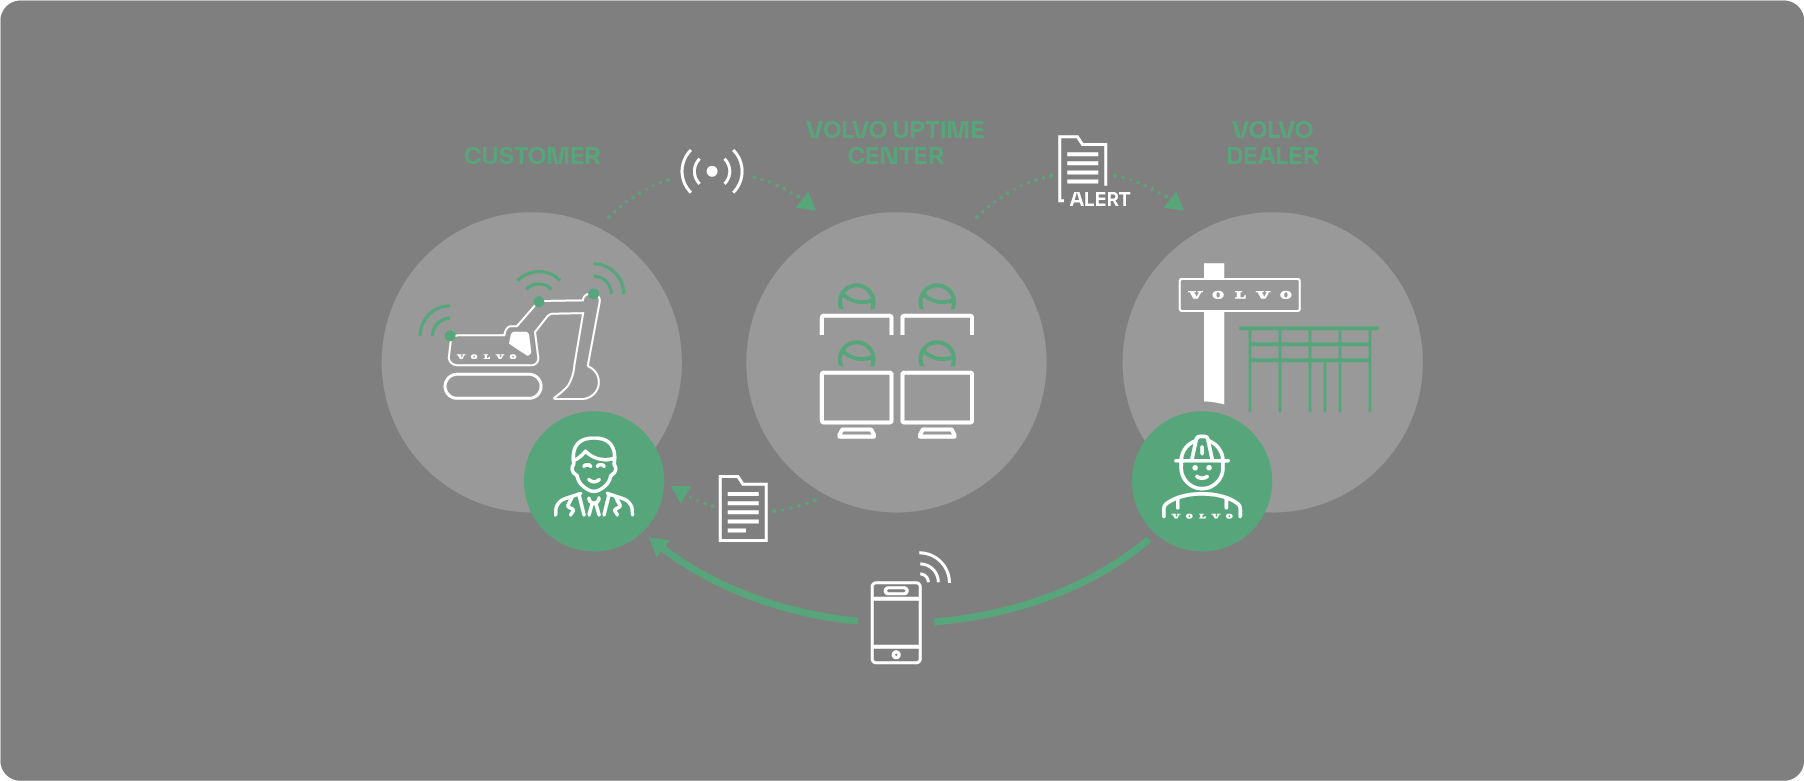
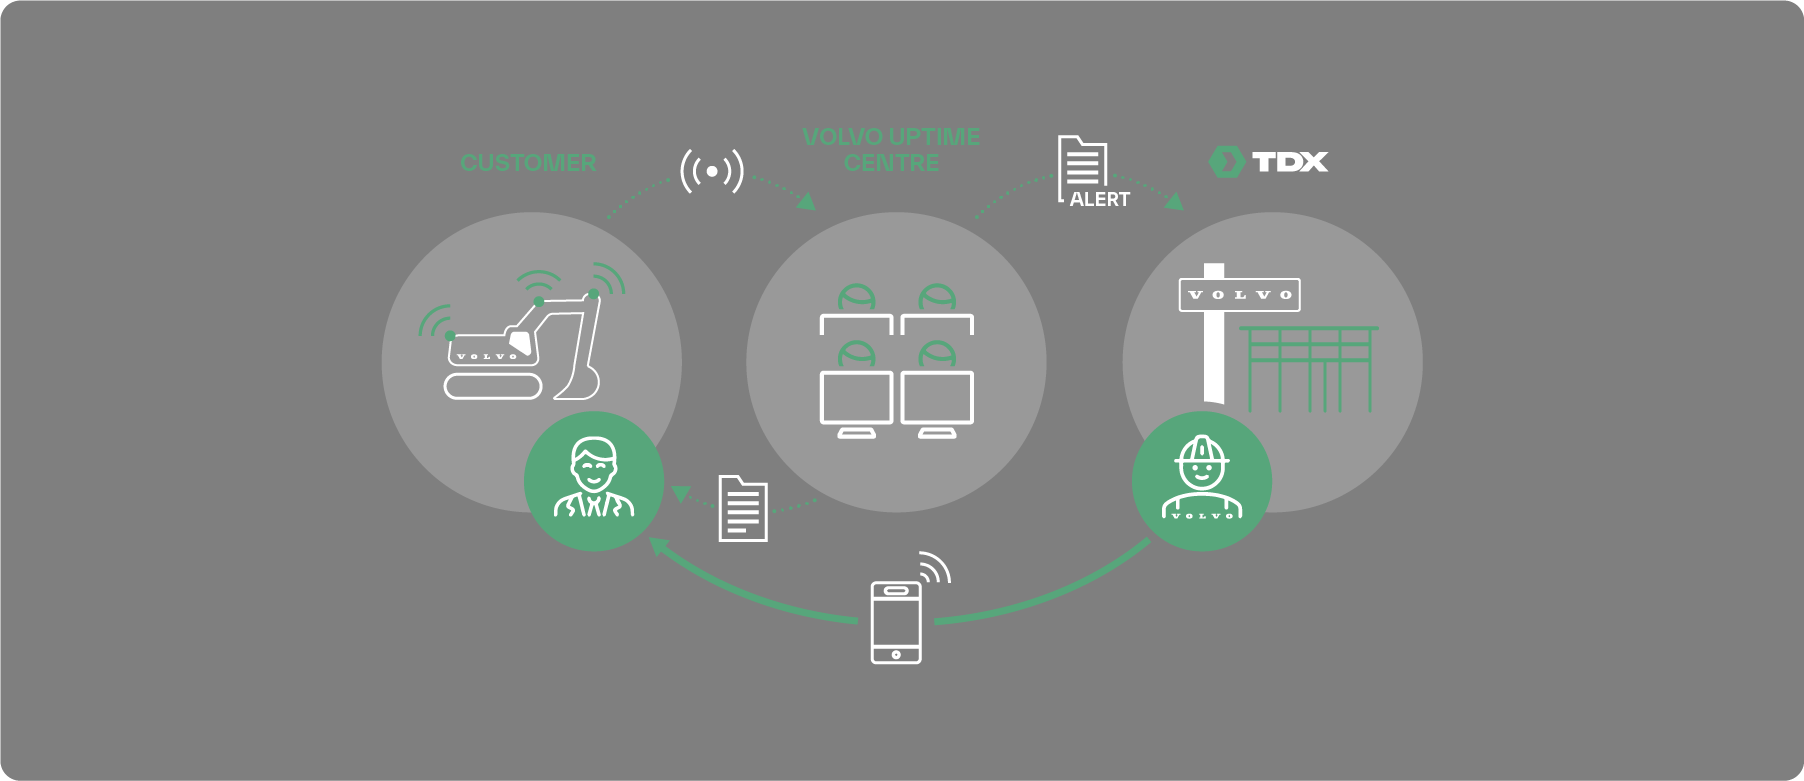
activecare editds

Changed region(s): [[0.6519, 0.1536, 0.745, 0.2458], [0.4346, 0.1536, 0.5588, 0.2151], [0.2483, 0.1844, 0.3415, 0.2151]]

diff --git a/html/volvo-activecare.html b/html/volvo-activecare.html
@@ -561,14 +561,14 @@
 
             <div>
            
-                <h1 class=" green">The Volvo Uptime Center</h1>
+                <h1 class=" green">The Volvo Uptime Centre</h1>
                 <br>
             <p>We understand the importance of uptime when it comes
                 to the success of your operation, which is why Volvo
                 Construction Equipment has invested in creating Volvo
-                Uptime Centers throughout the world. </p>
+                Uptime Centres throughout the world. </p>
                 
-                <p>Our Volvo machine experts work in these Centers, utilizing the most advanced
+                <p>Our Volvo machine experts work in these Centres, utilizing the most advanced
                 diagnostic tools and systems, to help keep uptime to a
                 maximum.</p>
             </div>
@@ -577,8 +577,8 @@
                 <h1 class=" green">How it works</h1>
                 <br>
                 <ul class="bulleted vanilla">
-                    <li>Machine data is captured via CareTrack, the Volvo telematics system, and sent to the Volvo Uptime Center</li>
-                    <li>Volvo experts monitor machines in real-time and send alerts to the Volvo dealer. If action is needed, your dealer will contact you to advise on the next steps.</li>
+                    <li>Machine data is captured via CareTrack, the Volvo telematics system, and sent to the Volvo Uptime Centre</li>
+                    <li>Volvo experts monitor machines in real-time and send alerts to the Volvo dealer. If action is needed, TDX will contact you to advise on the next steps.</li>
                     <li>The information is also compiled into a pdf report and sent to your inbox every week</li>
                 </ul>
 
@@ -672,10 +672,10 @@
 
 
             <h4 class="green">Minimize unexpected costs</h4>
-            <p>Your dealer can advise you on whether your machine requires immediate action, or if the repair can be scheduled into your next service, therefore streamlining maintenance requirements and reducing unnecessary travel.</p>
+            <p>TDX can advise you on whether your machine requires immediate action, or if the repair can be scheduled into your next service, therefore streamlining maintenance requirements and reducing unnecessary travel.</p>
 
             <h4 class="green">Tailored recommendations</h4>
-            <p>Eliminate recurring machine faults. Your local dealer can examine how your machine is being operated and why certain actions may be causing problems. Whatever the cause, Volvo can advise on the best solution, tailored to your specific application.</p>
+            <p>Eliminate recurring machine faults. TDX can examine how your machine is being operated and why certain actions may be causing problems. Whatever the cause, Volvo can advise on the best solution, tailored to your specific application.</p>
               
         </section>
     </div>
@@ -700,7 +700,7 @@
             <h1>Ready-made analysis</h1>
             <br>
             <p>Designed to identify areas where uptime could be improved, a weekly report will provide insights into how your machines are being used.</p>
-            <p>Take action and work closely with your Volvo dealer to ensure your machine stays in optimum condition.</p>
+            <p>Take action and work closely with TDX to ensure your machine stays in optimum condition.</p>
 
             <h4 class="green">Easy-to-use data</h4>
             <p>The report presents vital information in an easy-to-understand format, eliminating the need to sift through complicated data.</p>
@@ -749,26 +749,25 @@
 
         </section>
         <section>
-            <h1>Sub-Head</h1>
+            <h1>Clear, pro-active and precise</h1>
             <br>
 
-           <p>Aute ipsum laboris irure aute consectetur culpa nostrud cupidatat. Culpa esse sunt labore sint. Incididunt eu labore adipisicing id adipisicing pariatur nostrud sint ullamco esse in.</p>
-
-           <p>Aute ipsum laboris irure aute consectetur culpa nostrud cupidatat. Culpa esse sunt labore sint. Incididunt eu labore adipisicing id adipisicing pariatur nostrud sint ullamco esse in.</p>
+            <h4 class="green">ActiveCare takes Caretrack to the next level</h4>
+            <p>It allows you to hand off the daily monitoring to Volvo's Uptime Center. This team monitors your machines 24/7 and sifts through all the raw fleet information — only contacting you (and your dealer) when there's an alert that requires your attention. The data is always filtered and prioritized in three different levels according to the fault type.</p>
 
 
          
            
         </section>
         <section>
-            <h4 class="green">Sub-title</h4>
-            <p>Aute ipsum laboris irure aute consectetur culpa nostrud cupidatat. Culpa esse sunt labore sint. Incididunt eu labore adipisicing id adipisicing pariatur nostrud sint ullamco esse in.</p>
+            <h4 class="green">Filter out excessive data</h4>
+            <p>Filtering out the noise from being inundated with undiagnosed fault codes, Volvo ActiveCare delivers operational efficiency for equipment owners and fleet managers.</p>
 
-
-            <h4 class="green">Sub-title</h4>
-            <p>Aute ipsum laboris irure aute consectetur culpa nostrud cupidatat. Culpa esse sunt labore sint. Incididunt eu labore adipisicing id adipisicing pariatur nostrud sint ullamco esse in.</p>
-
+            <h4 class="green">We've got this</h4>
+            <p>We do the work for you, there is no need to spend hours going through data.</p>
   
+            <h4 class="green">Take action when required</h4>
+            <p>Only a small fraction of alerts are used to create cases, eliminating non-essential downtime. </p>
         </section>
     </div>
     <span data-src="/images/2023/activecare/activecare5-m.jpg"></span><!-- use 4:3 aspect for ph -->
@@ -804,7 +803,10 @@
             <div>
                 <hr class="short thickLine">
                 <br>
-                <h6 class="">Use this enquiry form or contact your local TDX Volvo expert to learn more about the financial and operational benefits of adding Volvo ActiveCare to your fleet.</h6>
+                <h6 class="">Use this form or contact your local TDX Volvo expert to learn more about the financial and operational benefits of adding Volvo ActiveCare to your fleet.</h6>
+                <br>
+                <br>
+                <p><strong>Already a CareTrack customer?</strong> Ask us about how to upgrade your fleet.</p>
       
             </div>
 

diff --git a/html/tdx-sustainability.html b/html/tdx-sustainability.html
@@ -106,7 +106,7 @@
             <div>
             
                 <div class="pbVideo">
-                    <iframe src="https://www.youtube.com/embed/YqPsFe2caCw?rel=0" allow="accelerometer; autoplay; encrypted-media; gyroscope; picture-in-picture" allowfullscreen="" width="560" height="315" frameborder="0"></iframe>
+                    <iframe src="https://www.youtube.com/embed/EcodDLsSZ1I?rel=0" allow="accelerometer; autoplay; encrypted-media; gyroscope; picture-in-picture" allowfullscreen="" width="560" height="315" frameborder="0"></iframe>
                 </div>
 
                 <br>
